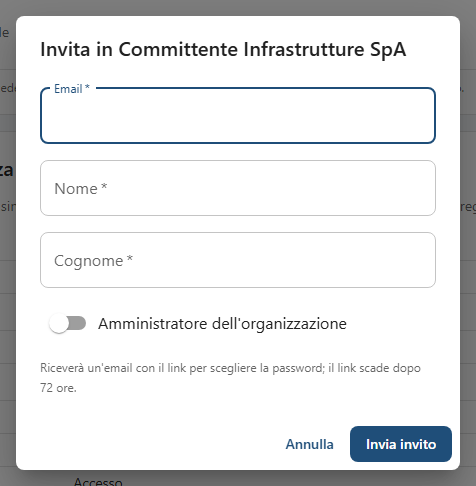
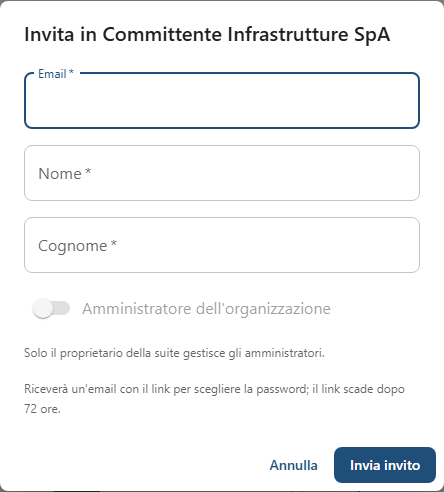
docs(skytower): ADR-58, scenario U59 e guida sugli amministratori decisi dal portale
ADR-58 (ADR-57 superato sul "solo promozione"): admin dato e tolto dal portale, collegamento
per username, controllo del profilo a ogni login, tetto assoluto del refresh, admin solo dal
proprietario. docs/uat.md con U59, README, guida §1.1, §10.4 e §10.7; immagini
10-organizzazione e 10-invita-utente rifatte su un'istanza temporanea con portale finto e
dati inventati.

Changed region(s): [[0.0, 0.0, 1.0, 1.0], [0.9077, 0.5247, 0.9369, 0.5556]]

diff --git a/skytower/docs/uat.md b/skytower/docs/uat.md
@@ -66,6 +66,7 @@ servono soprattutto a giudicare chiarezza e usabilità, non a cercare regression
 | U51 | `test_workflow_grafo.py` (rami paralleli, riunioni, ritorno indietro, processo RdA completo) |
 | U52 | `test_workflow_libreria.py` (libreria per organizzazione, permessi dell'admin, collegamento vivo con le versioni, copia nella commessa, solo ruoli, ruolo assente nella commessa, RLS); e2e `workflow-libreria.spec.ts` |
 | U53 | `test_security_bassi.py` (ricerca organizzazione, inviti generici, verifica registro incrementale, JSON con tetto, ticket monouso, refresh breve in HTTP, domini SSO, stream SSE) |
+| U59 | `test_api_profilo_portale.py` (account collegato per username ed email cambiata senza doppioni, admin e Project Admin dati e tolti con i ruoli di prima che restano, regola IP che non basta alla creazione, login con la password di SkyTower rifiutato se disattivato / non abilitato / eliminato e permesso a portale spento, account trovato per email che si collega, reset della password, tetto assoluto del rinnovo, admin solo dal proprietario della suite e «deciso dal portale»), `test_api_portale.py` |
 | U58 | `test_api_timbri.py` (scontorno come Timbri per VFP, timbro dove lo mostra il visualizzatore anche su pagine ruotate e con CropBox, firma PAdES, ambiti e permessi della libreria, PDF timbrato come WIP successiva con didascalia e registro attività, revisione pubblicata, buste .p7m e altri formati, workflow con modifiche richieste); `unit/scontorno.test.ts`; e2e `timbri.spec.ts` |
 | U57 | `test_firma_p7m.py` (naming .pdf.p7m, busta aperta e verificata, viewer sul PDF contenuto, download della busta, ricerca nel testo, nuova revisione firmata, motore assente e busta rotta, verifica di nuovo, filigrana sul PDF contenuto, motore vero con l'ente di prova); e2e `firma.spec.ts` |
 | U56 | `test_api_office.py` (`test_modifiche_richieste_con_onlyoffice`), `test_api_suite.py` (`test_da_fare_chiarimenti_e_modifiche`); e2e `onlyoffice.spec.ts` |
@@ -133,6 +134,7 @@ Tutti gli scenari hanno un test automatico: il collaudo serve a giudicare chiare
 | U52 | Admin dell'organizzazione committente / Project Admin di un'altra commessa | Dal menu del profilo apre «Libreria workflow»: c'è «RdA → gara → affidamento» copiato dalla Galleria Fortolese (`cde workflow-rda --progetto GALFOR --in-libreria`); in un'altra commessa della stessa organizzazione apre la scheda Workflow, poi Processi → «Nuovo processo»; avvia il modello di libreria; dalla libreria ne salva una nuova versione e avvia un secondo processo; infine nella commessa fa «Copia nella commessa» | Il modello è nella sezione «Dalla libreria dell'organizzazione» col bollino Libreria e si apre in sola lettura; nel dialogo di avvio ha il bollino «Libreria»; il primo processo resta sulla versione 1, il secondo parte dalla 2; se nella commessa nessuno ha un ruolo richiesto l'avvio è bloccato con l'elenco dei nodi; la copia diventa un modello della commessa modificabile; nell'editor della libreria non si possono scegliere persone (ADR-50) | |
 | U53 | Admin dell'organizzazione | Invita un collega con un'email già registrata in un'altra organizzazione, poi uno nuovo; apre un PDF con filigrana nel visualizzatore, lo chiude e lo riapre; copia il link del PDF in un altro PC della rete e lo apre | Per entrambi gli inviti compare lo stesso messaggio «invito inviato»; solo il collega nuovo riceve l'email e compare nell'elenco; il PDF si riapre senza errori dallo stesso PC, il link aperto dall'altro PC risponde «Link già usato: riaprire il documento» (ADR-49) | |
 | U54 | Buyer / Project Admin / Direttore dei lavori | Nella commessa ACI003 apre il processo «[PROVA] Ritorno indietro» (modello RdA di libreria); il buyer, sulle offerte, usa «Chiedi chiarimento» verso la selezione imprese, poi «Richiedi modifiche» verso «Scelta procedura»; chi ha la scelta la completa di nuovo; su un workflow di documento il DL rimanda a «Chi ha avviato», che carica una nuova revisione dal compito e lo completa | Nel dialogo il passo precedente è proposto e il commento è obbligatorio; finché manca la risposta il compito è «in attesa di chiarimento» (esiti spenti, nessun sollecito); la risposta torna al buyer; la scelta riaperta riattiva solo il suo ramo, gli altri buyer vanno avanti e la riunione QdR aspetta; il workflow del documento prosegue sulla nuova revisione condivisa, la vecchia resta nello storico; nella vista finale frecce tratteggiate di ritorno, elenco «Chiarimenti e modifiche» e giri del nodo con chi ha chiesto cosa (ADR-51) | |
+| U59 | Proprietario della suite / Amministratore del portale / Utente | Nel Portale il proprietario crea l'utente «m.prova» (utente normale, SkyTower spuntato); m.prova apre SkyTower dalla tessera; il proprietario nel Portale lo fa amministratore e m.prova riapre SkyTower; poi gli toglie l'amministrazione; poi cambia la sua email; poi lo disattiva e m.prova prova a entrare in SkyTower con email e password (se se n'era data una con «Password dimenticata») e con la sessione già aperta dopo 12 ore. Un admin dell'organizzazione che non è il proprietario apre «La mia organizzazione e gli utenti» e prova a nominare un admin | Al primo ingresso m.prova nasce collegato («dal portale» nella colonna Admin) e DESIGNER nelle commesse con codice; da amministratore del portale diventa admin dell'organizzazione e Project Admin delle commesse; tolto l'admin nel Portale, al rientro non è più admin né Project Admin ma resta DESIGNER; con l'email cambiata resta lo stesso account con l'email nuova; disattivato, il login con la password di SkyTower risponde «Il tuo account del Portale è disattivato» e la sessione non si rinnova oltre la scadenza del login; l'admin non proprietario vede l'interruttore Admin spento con «Solo il proprietario della suite gestisce gli amministratori»; nel registro di sicurezza compaiono «Amministratore dato/tolto dal Portale» e «Accesso negato dal Portale» (ADR-58) | |
 | U58 | Progettista / Project Admin | Il progettista apre la scheda «Timbri» della commessa e crea un timbro personale dalla foto della propria firma su un foglio bianco, regolando la tolleranza finché l'anteprima a scacchi non ha più aloni; il Project Admin crea il timbro della commessa «Approvato DL». Il progettista apre una tavola PDF (meglio se A1 orizzontale o con pagine ruotate), clicca «Timbra», mette «Approvato DL» con la didascalia in basso a destra e la propria firma sulla seconda pagina, li sposta e li ingrandisce, scrive una nota e salva; poi prova a timbrare un `.pdf.p7m` e un PDF con firma PAdES | Nasce la revisione successiva in WIP (es. P01.03, S0) con i timbri esattamente dove erano stati messi, la didascalia «Timbrato da … il …» con nome, data e ora giusti e la nota nel commento; la revisione di partenza resta com'era; nel registro attività (Project Admin) c'è «REVISION_STAMPED» con chi, quando, quali timbri e da quale revisione; la firma personale non compare ai colleghi; sul `.p7m` «Timbra» non c'è; sul PDF PAdES il programma chiede conferma spiegando che nella nuova revisione la firma non sarà più valida (ADR-56) | |
 | U57 | Progettista / Direttore dei lavori | Carica nella cartella delle tavole un capitolato firmato digitalmente `PRJ01-…-0012.pdf.p7m` (firma di un ente italiano, es. InfoCert o Aruba); apre il documento nel visualizzatore, clicca il badge della firma, prova «Verifica di nuovo»; cerca una parola del capitolato con «anche nel contenuto»; scarica il file; carica poi un `.p7m` con il PDF modificato dopo la firma | Il nome è accettato con identificativo senza `.pdf.p7m`; il visualizzatore mostra il PDF contenuto (si annota come un PDF) e il badge verde «Firma valida» con firmatario, codice fiscale, ente, tipo «firma digitale» e data; la ricerca lo trova; «Scarica» dà il `.p7m` originale; il file modificato si carica e si legge ma ha il badge rosso «Firma NON valida» con il motivo (ADR-55) | |
 | U56 | Progettista / Direttore dei lavori | Con OnlyOffice attivo, il progettista avvia un workflow su una relazione Word condivisa; il DL usa «Richiedi modifiche» verso «Chi ha avviato»; il progettista guarda il «Da fare oggi» del portale, apre la voce, nel compito usa «Modifica con OnlyOffice», corregge, preme «Salva», torna al compito e completa «Modifiche fatte»; un collega con permesso di scrittura prova ad aprire la stessa relazione in OnlyOffice | Nel portale la voce si chiama «Modifiche richieste: …» con il commento del DL e apre direttamente il compito; l'editor dice «Modifiche richieste: premi Salva…»; dopo il salvataggio il compito mostra «Caricata la revisione P02.01»; completato, il workflow torna al DL sulla P02 condivisa; il collega riceve «Documento bloccato» (ADR-54) | |

diff --git a/skytower/docs/adr.md b/skytower/docs/adr.md
@@ -1244,7 +1244,8 @@ un account già esistente, o nato utente, restava senza diritti di amministrazio
 Restano tutte le altre regole di ADR-47: solo email esatta e solo nell'organizzazione della suite; platform admin,
 altre organizzazioni, SSO obbligatorio, account bloccati o disattivati non entrano da qui; MFA come nel login con
 password; progetti di altri committenti mai toccati. Solo promozione: chi smette di essere admin nel portale non
-perde nulla in SkyTower (lo toglie un admin dalla pagina Utenti o Membri). L'admin per l'app concesso da una regola
+perde nulla in SkyTower (lo toglie un admin dalla pagina Utenti o Membri). **Superato da ADR-58** (11/11/2026):
+l'admin ora si dà e si toglie a ogni ingresso, e alla creazione la regola IP non basta più. L'admin per l'app concesso da una regola
 IP del portale (`data/ip-admin.json`, ruolo `utente`) **non** basta: vale solo davanti a quel PC, mentre il ruolo
 in SkyTower resterebbe ovunque. Gli utenti non admin del portale restano come prima (`CDE_SUITE_RUOLO_PORTALE`).
 
@@ -1259,3 +1260,66 @@ personale di platform admin (es. quello dell'utente, con email diversa da quella
 come sempre con password e secondo fattore. Test: `tests/test_api_portale.py`
 (`test_admin_del_portale_diventa_org_admin_e_project_admin`, `test_utente_esistente_promosso_quando_e_admin_del_portale`,
 `test_admin_solo_da_regola_ip_non_promosso`).
+
+## ADR-58 — Il profilo del portale vale in SkyTower: account collegato, admin dato e tolto, controllo al login
+
+**Contesto.** L'11/11/2026 l'utente ha deciso che "il profilo del portale vale per ogni programma" e che "gli admin
+devono essere creati solo da me, io posso creare e cancellare gli admin" (scelte 2b: il portale si controlla solo al
+login; 3b: le password proprie dei programmi restano, ma ogni login chiede anche al portale; 4a: i ruoli sotto
+l'admin restano decisi dentro ogni programma). Con ADR-57 SkyTower prendeva dal portale solo la **promozione**
+all'admin, e solo all'ingresso dal portale: l'account era legato al portale per email (un'email cambiata nel portale
+creava un secondo account, il vecchio con i suoi diritti), un admin tolto nel portale restava admin in SkyTower, una
+persona disattivata nel portale continuava a entrare con la password di SkyTower, una passkey o una sessione
+rinnovata all'infinito (il refresh token si allungava a ogni rinnovo), e alla creazione bastava l'admin dato da una
+regola IP del portale. Qualunque admin dell'organizzazione poteva nominarne altri.
+
+**Decisione.**
+- **Collegamento per username** (migrazione 0046, `users.portale_username`, unico): l'account che entra dal portale
+  (cookie o password del portale) o che il portale riconosce al login si collega allo username della persona; poi lo
+  si cerca prima per username e poi per email. A ogni ingresso nome, cognome ed email si allineano al portale (un nome
+  già giusto ma diviso diversamente non si riscrive; un'email di un altro account non si copia). Se l'email del
+  portale appartiene a un account già collegato a un'altra persona: 403 `portale_collegato_ad_altro`. Per i dati già
+  esistenti il collegamento è ricostruito dal registro di sicurezza (ultimo `LOGIN_PORTALE`/`USER_CREATED_PORTALE`).
+- **Admin dato e tolto** (`portale.allinea_profilo`): per un account collegato `is_org_admin` = ruolo `admin` del
+  portale a ogni ingresso; il declassamento (`ORG_ADMIN_TOLTO_DAL_PORTALE`) toglie anche i `PROJECT_ADMIN` aggiunti
+  dalla regola di ADR-57, ora segnati `project_memberships.dal_portale_admin` (ricostruiti dagli eventi
+  `MEMBER_ADDED` con `portale=true`); gli altri ruoli della persona restano (la chiave è progetto + utente + ruolo),
+  e chi resta senza ruolo in una commessa con codice torna `CDE_SUITE_RUOLO_PORTALE`. Se la persona è l'unico Project
+  Admin di una commessa il ruolo resta (`PROJECT_ADMIN_DAL_PORTALE_TENUTO`). Alla creazione dell'account conta solo il
+  ruolo `admin`, mai la regola IP.
+- **Controllo al login** (`portale.controlla_ingresso`, `POST <portale>/api/suite/profilo` col token della suite):
+  dopo la password giusta di SkyTower, la passkey, il single sign-on e prima di mandare o usare un link di reset della
+  password, per gli account dell'organizzazione della suite (non platform admin): persona disattivata nel portale →
+  403 `portale_disattivato`; SkyTower non fra i suoi programmi → 403 `portale_non_abilitato`; account collegato ma
+  persona eliminata dal portale → admin tolti e 403 `portale_eliminato`; portale spento → si entra (3b), evento
+  `PROFILO_PORTALE_NON_VERIFICATO`; persona sconosciuta e account non collegato → account solo-SkyTower, nulla cambia.
+  Con la persona attiva il profilo si copia anche da qui (collegamento, nome, email, admin, commesse con codice). Il
+  single sign-on fa solo il controllo (tiene bloccata la riga dell'utente): l'allineamento avviene al login seguente.
+- **Rinnovo con tetto assoluto** (`auth._refresh_tx`): il refresh token nuovo eredita la scadenza del precedente,
+  cioè quella fissata dal login (14 giorni; 12 ore in HTTP, ADR-49). Prima ogni rinnovo la spostava avanti e la SPA
+  prova il rinnovo prima del portale: una persona disattivata non sarebbe mai tornata al login. Scaduto il tetto la
+  SPA ricade da sola su `POST /auth/portale` (`api.refreshSession` → `sessioneDalPortale`): per chi viene dal portale
+  non cambia nulla, gli altri rifanno il login. Fra un login e l'altro il portale non si chiede (2b).
+- **Admin solo dal proprietario** (`portale.richiedi_proprietario`, `GET /me/proprietario`): nominare, togliere,
+  disattivare o riattivare un amministratore dell'organizzazione (pagina Organizzazione, invito con
+  «Amministratore», in **qualunque** organizzazione) può solo chi è collegato al portale e per cui il portale dice
+  `proprietario` (oggi l'utente), verificato dal vivo: altrimenti 403 `solo_proprietario`, portale spento 503. Su un
+  account collegato l'admin non si cambia nemmeno dal proprietario: 409 `deciso_dal_portale` (lo si cambia nel
+  portale). Gli strumenti da riga di comando (`tooling/`, seed, demo, account personali) restano liberi.
+
+**Alternative scartate.** Chiedere il portale a ogni richiesta (2a): cache e dipendenza continua dal portale acceso,
+scartata dall'utente. Togliere le password di SkyTower ai collegati (3a): scartata dall'utente, il portale spento non
+deve fermare SkyTower. Riconoscere come proprietario anche il platform admin: il platform admin non è una persona del
+portale (account personale con altra email) e il proprietario va verificato dove lo decide l'utente, cioè nel
+portale; il primo admin di una nuova organizzazione esterna lo nomina il proprietario entrando dal portale, oppure da
+riga di comando. Togliere solo l'admin dato dal portale lasciando quello dato in SkyTower (1b): scartata, "gli admin li
+creo e li cancello solo io".
+
+**Conseguenze.** Il portale è la fonte dell'identità e dell'admin per i suoi utenti; un portale compromesso continua a
+poter amministrare l'organizzazione della suite (ADR-57), non la piattaforma. Gli admin delle organizzazioni esterne
+non possono più nominare colleghi admin: lo fa il proprietario. Una persona disattivata nel portale perde SkyTower al
+login successivo, al più entro la scadenza della sessione (14 giorni; 12 ore in HTTP). Portale spento: si entra, ma
+nessuno può dare o togliere admin finché non torna. Migrazione 0046 (applicata da `cde dev` all'avvio). Test:
+`tests/test_api_profilo_portale.py` (collegamento ed email cambiata, admin dato e tolto con i ruoli di prima, regola IP
+alla creazione, login con password propria disattivato / non abilitato / eliminato / portale spento, account trovato
+per email, reset della password, tetto del rinnovo, admin solo dal proprietario), `tests/test_api_portale.py`.

diff --git a/skytower/docs/guida/10-amministrazione.md b/skytower/docs/guida/10-amministrazione.md
@@ -69,8 +69,9 @@ I documenti che arrivano dalle altre app nascono **in lavorazione** nella cartel
 dell'organizzazione che li manda, già con il nome a norma. Chi entra dal Portale senza un account SkyTower lo
 riceve al primo accesso, membro delle commesse della sua azienda che hanno un codice commessa. Un
 **amministratore del Portale** diventa a ogni ingresso amministratore dell'organizzazione e Project Admin di tutte
-le commesse dell'azienda (ADR-57); per togliergli questi poteri in SkyTower serve un amministratore, dalla pagina
-Utenti o Membri. Se il codice non è
+le commesse dell'azienda (ADR-57); dall'11/11/2026 vale anche il contrario: chi nel Portale non è più
+amministratore, al prossimo accesso perde qui l'amministrazione e i Project Admin che il Portale gli aveva dato
+(ADR-58). Gli amministratori si decidono nel Portale. Se il codice non è
 impostato vale come ripiego il codice ISO del progetto. **Salva**.
 
 ## 10.5 Cruscotto
@@ -129,6 +130,15 @@ Azioni sugli utenti:
 - **Azzera MFA** per chi ha perso telefono o chiave: verifica prima l'identità della persona per telefono al numero
   noto. L'azzeramento chiude anche le sue sessioni e resta nel registro;
 - interruttore **Admin** per nominare altri amministratori. L'ultimo amministratore non si può togliere.
+
+**Chi decide gli amministratori** (dall'11/11/2026, ADR-58). Nominare, togliere, disattivare o riattivare un
+amministratore può solo il **proprietario della suite Cosedil**, cioè chi il Portale indica come proprietario, entrato
+in SkyTower dal Portale; SkyTower lo chiede al Portale ogni volta. Per tutti gli altri amministratori l'interruttore
+**Admin**, l'opzione **Amministratore dell'organizzazione** dell'invito e **Disattiva** / **Riattiva** sugli
+amministratori sono spenti, con la scritta «Solo il proprietario della suite gestisce gli amministratori». Accanto a
+chi entra dal Portale c'è **dal portale**: per queste persone l'amministratore, il nome e l'email li decide il Portale
+e si aggiornano a ogni loro accesso, quindi l'interruttore resta spento anche per il proprietario (si cambia nel
+Portale). Se il Portale non risponde, nessuno può dare o togliere amministratori finché non torna.
 
 Il link **Libreria workflow** in alto porta ai modelli dell'organizzazione
 ([capitolo 6](06-workflow-e-processi.md#610-libreria-workflow-dellorganizzazione)).

diff --git a/skytower/README.md b/skytower/README.md
@@ -211,6 +211,20 @@ Un **amministratore del portale** (ruolo `admin`, non l'admin da regola IP) a og
 dell'organizzazione della suite e `PROJECT_ADMIN` di tutti i suoi progetti attivi, in aggiunta ai ruoli che ha
 (ADR-57, 09/11/2026); il platform admin resta fuori da questa strada.
 
+**Il profilo del portale vale in SkyTower** (ADR-58, 11/11/2026, migrazione 0046):
+- l'account resta collegato allo username del portale (`users.portale_username`): nome, cognome ed email si
+  allineano a ogni ingresso, un'email cambiata nel portale non crea un secondo account;
+- l'admin dell'organizzazione e i `PROJECT_ADMIN` della regola (`project_memberships.dal_portale_admin`) si danno
+  **e si tolgono** a ogni ingresso; alla creazione la regola IP non basta;
+- login con la password di SkyTower, passkey, single sign-on e reset della password chiedono al portale
+  `POST /api/suite/profilo` (token della suite): disattivato, SkyTower non spuntato o persona eliminata → 403;
+  portale spento → si entra (evento `PROFILO_PORTALE_NON_VERIFICATO`);
+- la catena dei rinnovi della sessione scade alla data del login (non si allunga più): il login torna almeno ogni
+  `CDE_REFRESH_TOKEN_TTL_S`; la SPA ricade da sola sulla sessione del portale;
+- dare, togliere, disattivare o riattivare un amministratore (in qualunque organizzazione) può solo il
+  **proprietario della suite** (`proprietario: true` nel portale, verificato dal vivo; `GET /me/proprietario`);
+  per un account collegato l'admin lo decide il portale (409 `deciso_dal_portale`). `tooling/` resta libero.
+
 | Variabile | Default | Effetto |
 |---|---|---|
 | `CDE_SUITE_ORG_ID` | organizzazione di `CDE_SUITE_USER_EMAIL`, altrimenti del primo platform admin | dove nascono gli utenti creati dal portale |

diff --git a/skytower/docs/guida/01-accesso-e-interfaccia.md b/skytower/docs/guida/01-accesso-e-interfaccia.md
@@ -13,6 +13,19 @@ Se nel Portale sei **amministratore**, lo sei anche qui (dal 09/11/2026): entran
 amministratore della tua organizzazione e **Project Admin** di tutte le commesse della tua azienda, anche se il tuo
 utente SkyTower era nato con meno diritti. I ruoli che avevi restano.
 
+Dall'11/11/2026 il tuo **profilo del Portale vale anche qui**, sempre:
+
+- il tuo utente SkyTower resta legato al tuo utente del Portale: se nel Portale cambiano il tuo nome o la tua email,
+  al prossimo accesso cambiano anche qui (resta lo stesso utente, con le stesse commesse);
+- se nel Portale non sei più amministratore, al prossimo accesso non lo sei più nemmeno qui: perdi l'amministrazione
+  dell'organizzazione e il ruolo di Project Admin che ti aveva dato il Portale, mentre i ruoli che avevi nelle
+  commesse restano;
+- se nel Portale il tuo account è **disattivato**, o SkyTower non è più fra i tuoi programmi, non entri più nemmeno
+  con email e password di SkyTower: compare «Il tuo account del Portale è disattivato: rivolgiti a un amministratore»
+  (o «SkyTower non è fra i tuoi programmi del Portale»). Se il Portale è spento si entra lo stesso;
+- la sessione di SkyTower dura al massimo 14 giorni dall'accesso (12 ore se il server non usa HTTPS): poi, se il
+  Portale è aperto, SkyTower ti fa rientrare da solo; altrimenti ti chiede di nuovo email e password.
+
 Gli account con poteri di amministrazione della piattaforma, per sicurezza, non entrano dal Portale: devono
 usare password e secondo fattore.
 
